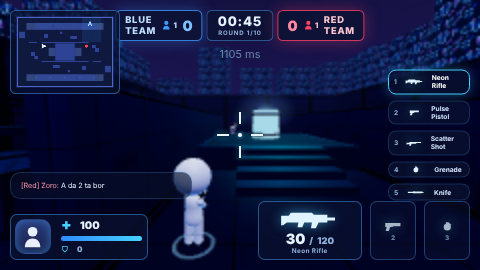
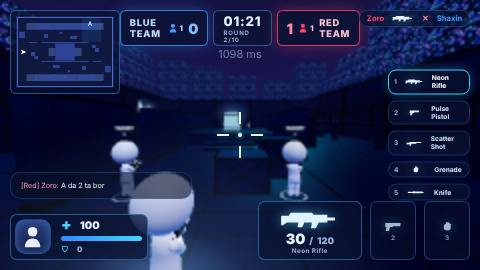
fix: keep kills/deaths across rounds and reopen per-life death accounting on round spawn; lobby name updates session name; tests updated for the new client
Claude-Session: https://claude.ai/code/session_013ZNAVDHQzvxuSKCJDy4JBP

diff --git a/test/unit/smoke.test.js b/test/unit/smoke.test.js
@@ -85,24 +85,19 @@ test('client: game indeksi NEON FACILITY mapini ishlatadi (eski arena-mesh emas)
   assert.match(mapview, /\bCOLLIDERS\b/, 'mapview kollayderlardan qurmaydi');
 });
 
-test('client: statik sahna fayllari mavjud (PHASE 4 combat: index.html → main → combat HUD)', () => {
+test('client: V-773 mijoz fayllari mavjud (index.html → js/v/app.js, HUD/touch ildizlari)', () => {
   const html = fs.readFileSync(path.join(ROOT, 'client', 'index.html'), 'utf8');
-  // Phase 4 combat qatlami hali ham e'lon qilingan (regressiya belgisi)
-  assert.match(html, /PHASE 4 COMBAT/i, 'index.html Phase 4 combat belgisi yo‘q');
-  // PHASE 9: joriy bosqich belgisi + chat paneli (yangi qatlam)
-  assert.match(html, /PHASE 9/, 'index.html Phase 9 belgisi yo‘q');
-  assert.match(html, /id="chatInput"/, 'chat kiritish maydoni yo‘q');
-  assert.match(html, /id="roundBanner"/, 'raund banneri yo‘q');
-  assert.match(html, /NEON FACILITY MAP/i, 'xarita nomi yo‘qoldi');
-  assert.match(html, /js\/main\.js/);
-  assert.match(html, /id="combatHud"/, 'combat HUD elementi yo‘q');
-  assert.match(html, /id="chCrosshair"/, 'crosshair yo‘q');
-  assert.match(html, /id="chReload"/, 'reload indikatori yo‘q');
-  const main = fs.readFileSync(path.join(ROOT, 'client', 'js', 'main.js'), 'utf8');
-  assert.match(main, /setMapVisible/, 'setMapVisible test hook yo‘q');
-  assert.match(main, /version: 4/, 'client versiyasi 4 emas');
-  assert.match(main, /combatQa/, 'combat QA hook yo‘q');
-  assert.match(main, /aimAt/, 'aimAt QA hook yo‘q');
+  assert.match(html, /NEON STRIKE/);
+  assert.match(html, /js\/v\/app\.js/);
+  for (const id of ['gl', 'hud', 'touch', 'ui']) assert.match(html, new RegExp(`id="${id}"`), `#${id} yo‘q`);
+  for (const f of ['app.js', 'net.js', 'settings.js', 'audio.js', 'viewer.js', 'character/model.js', 'character/animator.js', 'character/ik.js',
+    'weapons/models.js', 'world/arena.js', 'world/env.js', 'game/game.js', 'game/camera.js', 'game/input.js', 'game/hud.js', 'game/players.js', 'game/effects.js']) {
+    assert.ok(fs.existsSync(path.join(ROOT, 'client', 'js', 'v', f)), `client/js/v/${f} yo‘q`);
+  }
+  assert.ok(fs.existsSync(path.join(ROOT, 'client', 'viewer.html')), 'model tekshiruv sahnasi yo‘q');
+  // eski (Phase 2–12) mijoz saqlangan — eski verify skriptlari uchun
+  const legacy = fs.readFileSync(path.join(ROOT, 'client', 'legacy.html'), 'utf8');
+  assert.match(legacy, /js\/main\.js/);
 });
 
 // ---------- real server (ephemeral port) ----------
@@ -210,7 +205,7 @@ test('HTTP: / -> index.html 200, NEON STRIKE', async () => {
   assert.equal(res.status, 200);
   const html = await res.text();
   assert.match(html, /NEON STRIKE/);
-  assert.match(html, /js\/main\.js/);
+  assert.match(html, /js\/v\/app\.js/);
 });
 
 test('HTTP: /vendor/three.module.js xizmat qiladi (js MIME)', async () => {

diff --git a/test/unit/v773-foundation.test.js b/test/unit/v773-foundation.test.js
@@ -248,3 +248,17 @@ test('server: match tugagach host lobbyga qaytaradi va qayta boshlaydi (restart)
   await poll(() => srv.state.connections.size === 0, 'yopildi');
   await srv.close();
 });
+
+test('session: raund spawn (placePlayerAt) kills/deaths ni saqlaydi va peer-o‘lim hisobini qayta ochadi', async () => {
+  const { createSession } = await import('../../server/session.js');
+  const { registerExternalDeath } = await import('../../shared/combat.js');
+  const s = createSession({ id: 77 });
+  s.state.stats.kills = 3;
+  registerExternalDeath(s.state, 0);
+  assert.equal(s.state.stats.deaths, 1);
+  placePlayerAt(s, { x: -19.5, y: 0, z: 0, yaw: 0 }, 10);
+  assert.equal(s.state.stats.kills, 3, 'kills raund spawn’da nollanmasligi kerak');
+  assert.equal(s.state.stats.deaths, 1);
+  assert.equal(registerExternalDeath(s.state, 20), true, 'keyingi raunddagi o‘lim hisoblanishi kerak');
+  assert.equal(s.state.stats.deaths, 2);
+});

diff --git a/server/session.js b/server/session.js
@@ -630,8 +630,11 @@ export function placePlayerAt (session, spawn, now = session.state.now) {
   st.grenades.length = 0;
   st.grenadeSeq = 0;
   st.result.eventCount = 0;
+  // yangi raund = yangi hayot: peer-o'lim hisobi qayta ochiladi; kills/deaths esa
+  // MATCH davomida saqlanadi (scoreboard) — ular faqat match boshida nollanadi.
+  st.externalDeath = false;
   Object.assign(st.stats, {
-    shots: 0, hits: 0, blocked: 0, kills: 0, deaths: 0, respawns: st.stats.respawns,
+    shots: 0, hits: 0, blocked: 0, kills: st.stats.kills, deaths: st.stats.deaths, respawns: st.stats.respawns,
     damageDealt: 0, damageTaken: 0, selfDamage: 0, dryFires: 0,
     grenadeThrows: 0, grenadeExplosions: 0, targetsKilled: 0
   });

diff --git a/server/app.js b/server/app.js
@@ -700,7 +700,7 @@ export function createNeonServer ({ host = SERVER_DEFAULTS.HOST, port = SERVER_D
             return sendErr(socket, v.reason,
               `lobby ${kind} rad etildi${v.field ? ' (' + v.field + ')' : ''}`);
           }
-          if (v.name) member.name = v.name;
+          if (v.name) { member.name = v.name; const ss = sessionOf(member); if (ss) ss.name = v.name; }
           const nowTs = Date.now();
           const res = kind === 'create' ? lobbyCreate(state.lobby, member, nowTs)
             : kind === 'join' ? lobbyJoin(state.lobby, member, nowTs)
